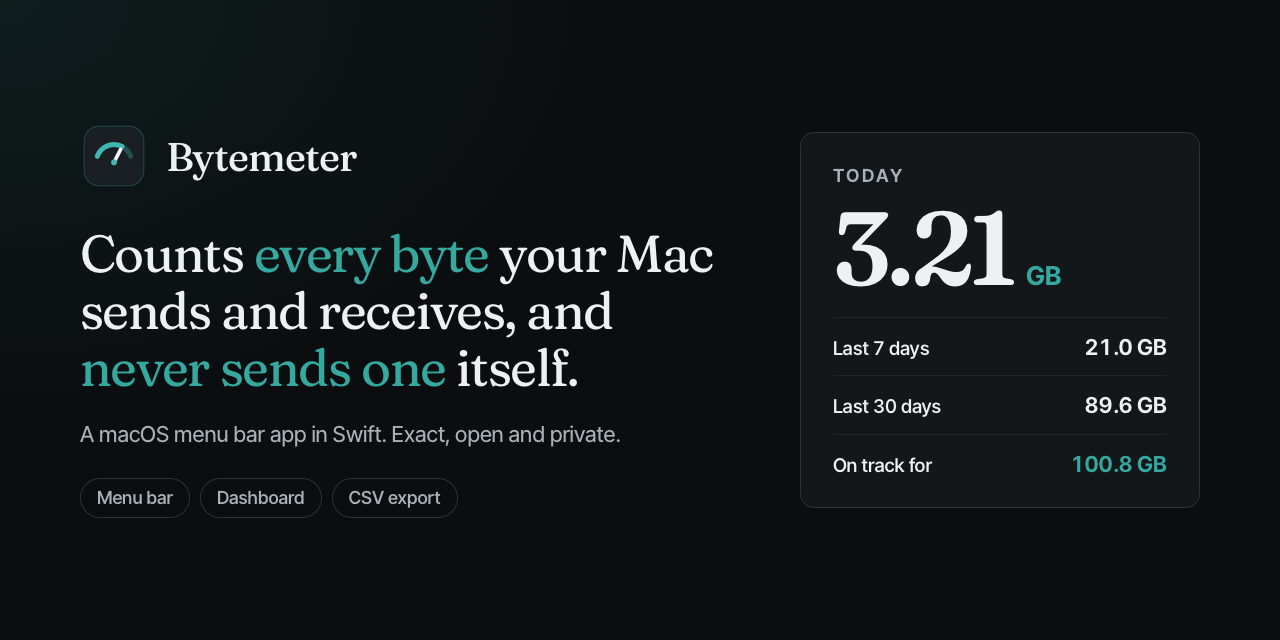
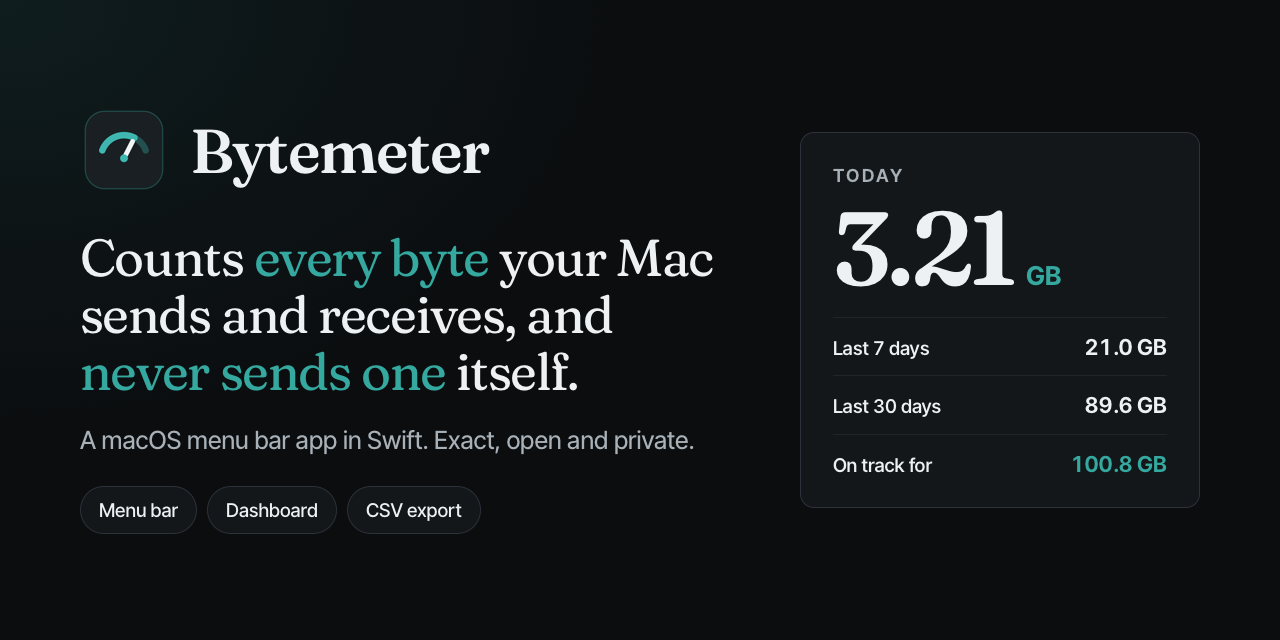
Docs: Mac wording, a contributing guide and issue form, release steps
The dashboard's footer says 'Nothing here has left it' where it said 'the
machine', and the tour clip is made again so its last frame shows it. The
README and the accuracy page say Mac for the user's Mac, quoted words take
single quotes, Open Dashboard and ad hoc are written as the app and the
other docs write them, and the README links Tokenmeter. CONTRIBUTING.md and
an issue form for a figure that looks wrong arrive, with the README's
section shortened to point at them. The release steps use vX.Y.Z in place
of a version that never existed, and gh release create gains --verify-tag.
The social preview's name, icon, line and chips match Tokenmeter's sizes.
A .mailmap prints one name for every commit.

diff --git a/docs/art/social-preview.html b/docs/art/social-preview.html
@@ -3,15 +3,15 @@
 <link rel="stylesheet" href="art.css">
 <style>
 .stage { width: 1280px; height: 640px; padding: 80px; display: grid; grid-template-columns: 1fr 400px; gap: 56px; align-items: center; }
-.name { display: flex; align-items: center; gap: 18px; font: 500 40px/1 var(--display); letter-spacing: -0.02em; }
-.name img { width: 68px; height: 68px; }
+.name { display: flex; align-items: center; gap: 22px; font: 600 62px/1 var(--display); letter-spacing: -0.02em; }
+.name img { width: 88px; height: 88px; }
 .claim { margin: 34px 0 22px; font: 400 52px/1.1 var(--display); letter-spacing: -0.025em;
   font-variation-settings: "SOFT" 50, "WONK" 0; }
 .claim em { font-style: normal; color: var(--accent); }
-.dim { color: var(--ink-2); font-size: 22px; }
+.dim { color: var(--ink-2); font-size: 25px; }
 .pills { display: flex; gap: 10px; margin-top: 28px; }
-.pills span { border: 1px solid var(--hairline-2); border-radius: 999px; padding: 6px 16px; font-size: 18px;
-  font-weight: 550; color: var(--ink-2); }
+.pills span { border: 1px solid var(--hairline-2); border-radius: 999px; padding: 9px 18px; font-size: 19px;
+  font-weight: 500; color: var(--ink); background: var(--surface); }
 .card { background: var(--surface); border: 1px solid var(--hairline-2); border-radius: 14px; padding: 30px 32px 14px; }
 .eyebrow { font-size: 15px; font-weight: 650; letter-spacing: 0.14em; text-transform: uppercase; color: var(--ink-2); }
 .figure { display: flex; align-items: baseline; gap: 12px; margin: 14px 0 22px; }

diff --git a/Sources/BytemeterDashboard/DashboardGenerator.swift b/Sources/BytemeterDashboard/DashboardGenerator.swift
@@ -239,7 +239,7 @@ public enum DashboardGenerator {
           </div>
           <div class="foot-bar">
             <a class="export" href="\(csvFile)" download>Export CSV</a>
-            <span class="muted">Generated by Bytemeter on this Mac. Nothing here has left the machine.</span>
+            <span class="muted">Generated by Bytemeter on this Mac. Nothing here has left it.</span>
           </div>
         </footer>
         """

diff --git a/README.md b/README.md
@@ -1,6 +1,6 @@
 <div align="center">
 
-<img src="docs/icon.png" alt="" width="96">
+<img src="docs/icon.png" alt="The Bytemeter icon" width="96">
 
 <h1>Bytemeter</h1>
 
@@ -21,7 +21,7 @@ Totals in the menu bar, a dashboard with charts, a CSV export. Everything stays 
 
 Bytemeter sits in the menu bar and shows how much data your Mac has used today, in the last 7 or 30 days, or since it started counting. Click it for the detail, or open the dashboard. It is written in Swift, has no dependencies, and makes no network requests of any kind: a tool that measures data use should not spend data.
 
-Every picture and clip on this page is the real app showing a generated month of invented traffic (`Scripts/make_demo_db.py`), not anyone's usage.
+Every picture and clip on this page is the real app showing a generated month of invented traffic ([`Scripts/make_demo_db.py`](Scripts/make_demo_db.py)), not anyone's usage.
 
 ## Install
 
@@ -53,7 +53,7 @@ Both routes need macOS 13.5 or later and the Xcode Command Line Tools (`xcode-se
 </td>
 <td valign="top">
 
-- **One figure, always in view.** Today, the last 7 days, the last 30 days or all time, the same four as Tokenmeter. Click its row in the menu, or right-click the figure to step through them. A live speed can sit beside it.
+- **One figure, always in view.** Today, the last 7 days, the last 30 days or all time, the same four as [Tokenmeter](https://github.com/Adi-debug-source/tokenmeter). Click its row in the menu, or right-click the figure to step through them. A live speed can sit beside it.
 - **Four totals, read in a glance.** Each row has one figure, its download, worked out from the same rows as the dashboard, so no two figures can disagree. This week, this month, upload, the averages and the rest are on the dashboard.
 - **Where the month is heading.** One line with a projection for the month's end, download and upload combined as a provider counts them.
 - **A monthly cap.** Set your allowance in GB and the day your billing cycle starts, and that line becomes what is used of the cap and how many days are left, over a bar.
@@ -67,7 +67,7 @@ The digits are monospaced, so the menu bar item does not jitter as the figure ch
 
 ### A dashboard that is one file
 
-Open dashboard writes a single dark HTML page and opens it: hand-written HTML and inline SVG, no JavaScript, nothing fetched. This is one invented day, a page every half hour:
+Open Dashboard writes a single dark HTML page and opens it: hand-written HTML and inline SVG, no JavaScript, nothing fetched. This is one invented day, a page every half hour:
 
 <p align="center">
   <img src="docs/screenshots/dashboard-day.gif" alt="The top of the dashboard through one invented day: the figure for today climbs from a few megabytes to 3.32 GB as the bars of the hourly chart fill in" width="100%">
@@ -113,9 +113,9 @@ It reads the kernel's own interface byte counters every 5 seconds, keeps per-app
 ~/Library/Application Support/Bytemeter/bytemeter.db
 ```
 
-Minute rows are kept for 90 days, then collapsed to hourly, so on a typical machine the file levels off at roughly 40 MB and then grows by a few MB a year. Its log is at `~/Library/Logs/Bytemeter/bytemeter.err`.
+Minute rows are kept for 90 days, then collapsed to hourly, so on a typical Mac the file levels off at roughly 40 MB and then grows by a few MB a year. Its log is at `~/Library/Logs/Bytemeter/bytemeter.err`.
 
-Reading your Wi-Fi network name is off by default, and while it is off Bytemeter never touches Location Services. Switching it on in Preferences asks macOS for Location Services, because macOS treats a network name as location information. If you refuse, the feature switches itself back off and tells you where to allow it. Because each build is ad-hoc signed afresh, macOS may forget the permission after an update. Bytemeter never asks again on its own: Preferences says that network names are not being recorded, and offers to ask macOS again.
+Reading your Wi-Fi network name is off by default, and while it is off Bytemeter never touches Location Services. Switching it on in Preferences asks macOS for Location Services, because macOS treats a network name as location information. If you refuse, the feature switches itself back off and tells you where to allow it. Because each build is ad hoc signed afresh, macOS may forget the permission after an update. Bytemeter never asks again on its own: Preferences says that network names are not being recorded, and offers to ask macOS again.
 
 [SECURITY.md](SECURITY.md) says what counts as a security report and how to send one privately.
 
@@ -166,7 +166,7 @@ The code is in four parts, split on purpose:
 <details>
 <summary><b>Why is there no download, only a build?</b></summary>
 
-Bytemeter is not notarised, and it does not need to be. Both install routes build it on your own Mac, so there is no downloaded app for macOS to quarantine, and it opens without a warning. A prebuilt, ad-hoc signed app would be refused by Gatekeeper.
+Bytemeter is not notarised, and it does not need to be. Both install routes build it on your own Mac, so there is no downloaded app for macOS to quarantine, and it opens without a warning. A prebuilt, ad hoc signed app would be refused by Gatekeeper.
 </details>
 
 <details>
@@ -207,7 +207,7 @@ No. Other menu bar data meters exist, some with alerts and per-app limits. Bytem
 
 ## Install and remove
 
-`install.sh` builds the app with `swift build -c release`, ad-hoc signs `Bytemeter.app`, copies it to `~/Applications`, and adds a login item so it starts at login. The login item restarts the app after a crash, but if you quit it, it stays quit until the next login. It is safe to run again after `git pull` to update. The options are:
+`install.sh` builds the app with `swift build -c release`, ad hoc signs `Bytemeter.app`, copies it to `~/Applications`, and adds a login item so it starts at login. The login item restarts the app after a crash, but if you quit it, it stays quit until the next login. It is safe to run again after `git pull` to update. The options are:
 
 - `--uninstall`: removes the app and the login item, and keeps your data.
 - `--dry-run`: says what it would do and changes nothing.
@@ -250,16 +250,17 @@ The pictures and clips in this README are made this way, from invented data, so 
 
 ## Contributing
 
-Issues and pull requests are welcome. A bug report is most useful with the version (`VERSION`), what the menu or dashboard showed, and what you expected. For a change:
+The most useful contribution is a check against reality: a figure compared with `netstat -ib`, or a gap that [How accurate it is](docs/accuracy.md) does not list. [CONTRIBUTING.md](CONTRIBUTING.md) says how, and what a pull request needs.
 
-1. Run `swift run -c release BytemeterSelfTest` before and after. It is the gate, and a fix for a counting bug comes with a check that fails without it.
-2. Keep the engine free of AppKit and the dashboard free of scripts and web addresses. CI checks the second.
-3. Read [MAINTENANCE.md](MAINTENANCE.md) for how the parts fit together, the login item and the release steps, and [CHANGELOG.md](CHANGELOG.md) for what each version changed and why.
-
-[AGENTS.md](AGENTS.md) holds the working rules for coding agents on this repository; they are a fair summary of the standards for people too. Report a vulnerability privately, as [SECURITY.md](SECURITY.md) describes.
+- Before anything else: `swift run -c release BytemeterSelfTest` (needs only the Command Line Tools)
+- How the parts fit together, the login item and the release steps: [MAINTENANCE.md](MAINTENANCE.md)
+- What changed in each version: [CHANGELOG.md](CHANGELOG.md)
+- The working rules for coding agents: [AGENTS.md](AGENTS.md)
 
 ## Licence
 
 MIT, see [LICENSE](LICENSE). Copyright (c) 2026 Aditya Kumar.
 
 The dashboard carries two fonts under the SIL Open Font License 1.1: Fraunces, by The Fraunces Project Authors, and Inter Tight, by The Inter Project Authors. Their licences are `OFL-Fraunces.txt` and `OFL-InterTight.txt` in [Resources/Fonts](Resources/Fonts).
+
+Also by Aditya Kumar: [Tokenmeter](https://github.com/Adi-debug-source/tokenmeter), which shows what your AI coding would have cost at API rates.

diff --git a/MAINTENANCE.md b/MAINTENANCE.md
@@ -20,9 +20,9 @@ swift build -c release
 swift run -c release BytemeterSelfTest
 ```
 
-Both need only the Xcode command line tools, not full Xcode. The self-test is a
+Both need only the Xcode Command Line Tools, not full Xcode. The self-test is a
 plain executable rather than an XCTest target because XCTest cannot be resolved
-with the command line tools alone. It prints how many checks ran and exits
+with the Command Line Tools alone. It prints how many checks ran and exits
 non-zero if any failed. Run it after any change.
 
 A few `ld: warning: search path ... not found` lines under the command line
@@ -56,6 +56,8 @@ for each product linked.
 | `install.sh` | builds the app, and installs, updates or removes it |
 | `Formula/bytemeter.rb` | the Homebrew formula, pointed at the latest tag (see Homebrew) |
 | `.github/workflows/test.yml` | CI: the fonts check, the build, the self-test, the demo dashboard, the demo script's refusal of the real data folder, the scripts and formula parse, and the bundle from a clean clone |
+| `.github/ISSUE_TEMPLATE/` | the issue form for a figure that looks wrong, and the link for reporting a vulnerability privately |
+| `CONTRIBUTING.md` | how to check a figure, report a gap and send a change, and what a pull request needs |
 | `CHANGELOG.md` | what each release changed |
 
 `./install.sh --help` lists its options. `--dry-run` works with all of them and
@@ -67,7 +69,7 @@ Short on purpose: Data used, four period rows, one line about the month, Top App
 
 - **The period rows are standard menu items; every other row is a drawn view.** AppKit gives a view in a menu item no key events, so a drawn period row could not be chosen with Return; tested on macOS 27 on 21 November 2026, which is why they are standard items. Each period row's figure sits at a right tab stop (`MenuRows.period`). AppKit keeps its shortcut column to the right of a standard item's title, so the figures end about 30 points short of the ⌘D column, and the drawn rows end theirs on the same edge (`MenuRows.figureColumn`). The rows that only inform stay views because AppKit draws a disabled item grey whatever its title's colour.
 - **The periods are Today, Last 7 days, Last 30 days and All time**, Tokenmeter's four, for the rows and the right-click cycle alike. `StatusMode(saved:)` maps the week and month that 1.3.1 and earlier saved to the last 7 and 30 days.
-- **Plain process names** live in `ProcessNames`, in the engine. A name goes in only if it is true for every app behind the process: the WebKit networking process serves Mail too, so it is "Web content (WebKit)", not Safari. Anything not listed keeps its own name.
+- **Plain process names** live in `ProcessNames`, in the engine. A name goes in only if it is true for every app behind the process: the WebKit networking process serves Mail too, so it is 'Web content (WebKit)', not Safari. Anything not listed keeps its own name.
 - **The menu is pinned by the self-test through `MenuModel`**, without opening a menu: four rows, one ticked, download only, the warning row only when it should be, the cap line in place of the projection, no submenu while sampling is off.
 
 ## Measuring
@@ -89,8 +91,8 @@ For the figures to be comparable, run both on a quiet Mac. The idle figures of e
 `VERSION` holds both numbers:
 
 ```
-VERSION=1.3.0
-BUILD=8
+VERSION=X.Y.Z
+BUILD=N
 ```
 
 `install.sh` writes them into `CFBundleShortVersionString` and
@@ -102,8 +104,8 @@ To bump it:
 
 1. Change `VERSION`: a fix moves the last number, a new feature the middle one.
 2. Add one to `BUILD`, whatever `VERSION` did. It only ever goes up.
-3. Commit with the version as the message, for example `Bytemeter 1.0.1`.
-4. The tag is the same number with a `v` in front: `v1.0.1`. It goes on the
+3. Commit with the version as the message, for example `Bytemeter X.Y.Z`.
+4. The tag is the same number with a `v` in front: `vX.Y.Z`. It goes on the
    last commit of the release, the one that dates the CHANGELOG heading, which
    can come after the version commit.
 
@@ -111,7 +113,7 @@ To bump it:
 
 `Resources/AppIcon.icns` is the only copy of the design. The code that drew it
 was a one-off and no longer exists, so it cannot be regenerated from this
-repository. Do not redraw it to "rebuild" it: a redraw is a different icon.
+repository. Do not redraw it to 'rebuild' it: a redraw is a different icon.
 If a generator is ever written, it has to reproduce this file before it
 replaces it, checked by eye at 32 and 1024 pixels.
 
@@ -250,14 +252,14 @@ pointed at it.
    tag that last commit and push both:
 
    ```bash
-   git tag -a v1.0.1 -m "Bytemeter 1.0.1"
-   git push origin main v1.0.1
+   git tag -a vX.Y.Z -m "Bytemeter X.Y.Z"
+   git push origin main vX.Y.Z
    ```
 
 3. Create the release, with no files attached:
 
    ```bash
-   gh release create v1.0.1 --title "Bytemeter 1.0.1" --notes-file notes.md
+   gh release create vX.Y.Z --verify-tag --title "Bytemeter X.Y.Z" --notes-file notes.md
    ```
 
    Write the notes as prose: what changed and why, not a list of commits.
@@ -308,7 +310,7 @@ After each release:
 1. Take the checksum of the new tag's tarball, as GitHub serves it:
 
    ```bash
-   curl -sL https://github.com/Adi-debug-source/bytemeter/archive/refs/tags/v1.0.1.tar.gz | shasum -a 256
+   curl -sL https://github.com/Adi-debug-source/bytemeter/archive/refs/tags/vX.Y.Z.tar.gz | shasum -a 256
    ```
 
 2. In `Formula/bytemeter.rb`, set `url` to the new tag and `sha256` to that

diff --git a/AGENTS.md b/AGENTS.md
@@ -5,21 +5,21 @@ A macOS menu bar app in Swift that counts the bytes the Mac's network interfaces
 ## The worst mistakes here
 
 - Touching the live data in `~/Library/Application Support/Bytemeter/`: it is the only record of what the Mac carried. Work on a demo folder: `Scripts/make_demo_db.py` writes one, and the app reads it with `--demo <folder>`.
-- Real data in anything that goes online, a README image or pull request evidence: it shows someone's usage and app list. Use the synthetic month (MAINTENANCE.md, "Screenshots and clips").
-- Stopping or reloading the installed app with `kill` or `kickstart`: launchd starts a killed copy again as a crash, and the kernel kills a new build under the old signature. Use `bootout` and `bootstrap` (MAINTENANCE.md, "The login item").
+- Real data in anything that goes online, a README image or pull request evidence: it shows someone's usage and app list. Use the synthetic month (MAINTENANCE.md, 'Screenshots and clips').
+- Stopping or reloading the installed app with `kill` or `kickstart`: launchd starts a killed copy again as a crash, and the kernel kills a new build under the old signature. Use `bootout` and `bootstrap` (MAINTENANCE.md, 'The login item').
 
 ## Commands
 
 - Test: `swift run -c release BytemeterSelfTest` (the gate: a Stop hook runs it at the end of every turn; builds first, then prints how many checks ran and exits non-zero if any failed; needs only the Command Line Tools)
 - Build: `swift build -c release`
 - Fonts check: `python3 Scripts/make_fonts.py --check` (the embedded fonts must match their files; CI runs it first)
-- Measure: `swift run -c release BytemeterSelfTest --measure` for the engine and `Scripts/measure_idle.sh` for the running app (MAINTENANCE.md, "Measuring"; a change that claims to be faster shows both, before and after)
+- Measure: `swift run -c release BytemeterSelfTest --measure` for the engine and `Scripts/measure_idle.sh` for the running app (MAINTENANCE.md, 'Measuring'; a change that claims to be faster shows both, before and after)
 - Install locally: `./install.sh` (`--dry-run` says exactly what would happen; `--help` lists the options)
 - Version, icon, release, Homebrew and screenshots: MAINTENANCE.md is the authority. Read the section the task needs; nothing from it is copied here.
 
 ## Layout
 
-The table in MAINTENANCE.md, "How it fits together", names every part. In short: `Sources/BytemeterCore` is the engine, `Sources/BytemeterDashboard` the page and the export, `Sources/Bytemeter` the macOS app, `Sources/BytemeterSelfTest` the checks (one file per subject, shared helpers in `Harness.swift`), `VERSION` the version, `Scripts/` the generators and templates, `Resources/` the icon and fonts, `Formula/` the Homebrew formula.
+The table in MAINTENANCE.md, 'How it fits together', names every part. In short: `Sources/BytemeterCore` is the engine, `Sources/BytemeterDashboard` the page and the export, `Sources/Bytemeter` the macOS app, `Sources/BytemeterSelfTest` the checks (one file per subject, shared helpers in `Harness.swift`), `VERSION` the version, `Scripts/` the generators and templates, `Resources/` the icon and fonts, `Formula/` the Homebrew formula.
 
 ## Conventions this code keeps
 

diff --git a/docs/guide.md b/docs/guide.md
@@ -14,9 +14,9 @@ The menu holds, from the top:
 
 - **Data used**, the header, with the live download rate at its right while live speed is on.
 - A **warning line**, only when something is wrong: if recording stops because the database cannot be written, for example on a full disk, it says so and since when. On a new install, until the first figures arrive, it says counting has started.
-- **Four period rows:** Today, Last 7 days, Last 30 days and All time, each with one figure, its download, as the menu bar shows. Hover over a row for where it starts, for example "From 23 Sep", and for all time its start date and day count, for example "Since 1 Jan 2026 · 90.0 days counted".
-- **One line about the month:** a month-end projection, download and upload combined as a provider counts them, for example "On track for 100.8 GB in total this month". It carries the month's rate so far on to its end. On the first day of a month it runs the last 24 hours on instead, and with under a day counted at all it says it is too early to project. When a cap is set, the cap takes its place: "97.1 of 150.0 GB, 2 days left" over a thin bar. Every other figure in the menu is download; the projection and the cap add the two together, and their tooltips say so.
-- **Top Apps Today**, a submenu: the five apps that used the most today, by download, each with a bar for its share and a plain name where the process has one ("Web content (WebKit)", "iCloud", "Background downloads"). It is a guide, not an exact split, and is left out while per-app sampling is off.
+- **Four period rows:** Today, Last 7 days, Last 30 days and All time, each with one figure, its download, as the menu bar shows. Hover over a row for where it starts, for example 'From 23 Sep', and for all time its start date and day count, for example 'Since 1 Jan 2026 · 90.0 days counted'.
+- **One line about the month:** a month-end projection, download and upload combined as a provider counts them, for example 'On track for 100.8 GB in total this month'. It carries the month's rate so far on to its end. On the first day of a month it runs the last 24 hours on instead, and with under a day counted at all it says it is too early to project. When a cap is set, the cap takes its place: '97.1 of 150.0 GB, 2 days left' over a thin bar. Every other figure in the menu is download; the projection and the cap add the two together, and their tooltips say so.
+- **Top Apps Today**, a submenu: the five apps that used the most today, by download, each with a bar for its share and a plain name where the process has one ('Web content (WebKit)', 'iCloud', 'Background downloads'). It is a guide, not an exact split, and is left out while per-app sampling is off.
 - **Open Dashboard** (⌘D), **Preferences…** (⌘,) and **Quit Bytemeter** (⌘Q).
 
 This week, this month, upload, yesterday, the busiest hour and the per-app upload are on the dashboard.

diff --git a/docs/accuracy.md b/docs/accuracy.md
@@ -26,9 +26,9 @@ Bytemeter is careful about saying what it knows and what it does not.
 
 - **Per-app figures under-report.** They come from `nettop`, and a process that exits between samples takes its last few seconds with it, so a per-app total is a good guide rather than an exact split. The interface counters are the source of truth, and the two will not reconcile to the byte.
 - **Sleep is counted, but its timing is estimated.** The traffic across a sleep is real, so it is counted, but its timing is not observed. Bytemeter spreads it evenly across the gap and marks those minutes as estimated. The dashboard draws them hatched, with a one-line key, and its tooltips say how much of a figure is estimated. Totals never change because of this.
-- **"All time" means since Bytemeter started counting**, not since the Mac was new. Traffic already on the counter when Bytemeter first runs has no timestamps, so it is left out rather than folded in to flatter the figure.
+- **'All time' means since Bytemeter started counting**, not since the Mac was new. Traffic already on the counter when Bytemeter first runs has no timestamps, so it is left out rather than folded in to flatter the figure.
 - **Reboots are told from interface resets.** Bytemeter uses the kernel's boot session id, which changes only at a reboot. After a genuine reboot, everything on the counter since boot is counted. After an interface reset without a reboot, the baseline moves and nothing is booked, because there is no start time to measure from.
-- **Weeks start on Monday, dates read day first, and the clock is yours.** Bytemeter uses ISO 8601 weeks and writes dates day first whatever your Mac's region is set to, by choice, so a figure means the same thing on every machine. Daily, hourly and heatmap figures track local time correctly across clock changes, including half-hour time zones.
+- **Weeks start on Monday, dates read day first, and the clock is yours.** Bytemeter uses ISO 8601 weeks and writes dates day first whatever your Mac's region is set to, by choice, so a figure means the same thing on every Mac. Daily, hourly and heatmap figures track local time correctly across clock changes, including half-hour time zones.
 - **It is not the first of its kind.** Other menu bar data meters exist, some with alerts and per-app limits. Bytemeter's part is being exact, open and private.
 
 [Back to the README](../README.md)

diff --git a/CONTRIBUTING.md b/CONTRIBUTING.md
@@ -1,0 +1,30 @@
+# Contributing
+
+Thank you for looking. Bytemeter's only claim is that its figures match what the network interfaces carried, so the most useful thing anyone can send is a check against reality.
+
+## Three ways to help, smallest first
+
+1. **Compare a figure with the kernel's own.** `netstat -ib` prints the counters Bytemeter reads. If a total in the menu or on the dashboard does not move with them, open an issue with the version (`VERSION`), what the menu or dashboard showed, and what you expected.
+2. **Report a gap that is not written down.** [How accurate it is](docs/accuracy.md) lists every known gap with its size. A miss that is not on that list, or is larger than it says, is a bug.
+3. **Send a change.** [MAINTENANCE.md](MAINTENANCE.md) says how the parts fit together, and covers the login item and the release steps. [CHANGELOG.md](CHANGELOG.md) says what each version changed and why.
+
+Never attach your real database, dashboard or CSV export to an issue: they show your apps, your network names and when you were online. `Scripts/make_demo_db.py` writes an invented month if you need one.
+
+## Before you open a pull request
+
+```bash
+swift run -c release BytemeterSelfTest
+```
+
+It needs only the Command Line Tools. Run it before and after your change; it must pass.
+
+- **A fix for a counting bug comes with a check that fails without it.**
+- **The engine stays free of AppKit,** so the self-test can check it and another platform could use it untouched.
+- **The dashboard stays free of scripts and web addresses.** CI fails the build if either appears.
+- **One change per pull request,** titled in the conventional form with plain words: `fix(menu): the counter no longer resets after sleep`.
+
+[AGENTS.md](AGENTS.md) holds the working rules for coding agents on this repository; they are a fair summary of the standards for people too.
+
+## Security
+
+Please report a vulnerability privately, as [SECURITY.md](SECURITY.md) describes, not in a public issue.

diff --git a/.claude/skills/verify/SKILL.md b/.claude/skills/verify/SKILL.md
@@ -40,7 +40,7 @@ cat "$T/demo.log"; kill -0 $PID && echo alive; kill $PID
 
 Working means the log says `Bytemeter demo: showing ... Read only.` and the process is still alive when checked. The loop only waits up to ten seconds for that line; it is not a retry. Stop it by the `PID` you kept, never by name. Demo mode never writes and leaves an installed Bytemeter alone.
 
-What this covers: the app launches in demo mode, opens the database, builds its menu bar item and stays up. What it does not: the menu's contents, which need a click. For a change to the menu, take the menu image as MAINTENANCE.md, "Screenshots and clips", says (`Scripts/menu_shots.swift`), which needs screen recording allowed, and look at it.
+What this covers: the app launches in demo mode, opens the database, builds its menu bar item and stays up. What it does not: the menu's contents, which need a click. For a change to the menu, take the menu image as MAINTENANCE.md, 'Screenshots and clips', says (`Scripts/menu_shots.swift`), which needs screen recording allowed, and look at it.
 
 The temp folder holds only synthetic data; delete it by its printed path when done.
 

diff --git a/CHANGELOG.md b/CHANGELOG.md
@@ -1,5 +1,9 @@
 # Changelog
 
+## Unreleased
+
+- The dashboard's footer says 'Nothing here has left it' where it said 'the machine'.
+
 ## 1.4.0, 21 November 2026
 
 A shorter menu. It held 33 lines and 35 figures; it now holds ten rows that say how much has been used, and the rest is one click deeper or on the dashboard. No figure changes: the CSV and the dashboard's figures are as before for the same database. The self-test runs 1,309 checks, up from 1,280.
